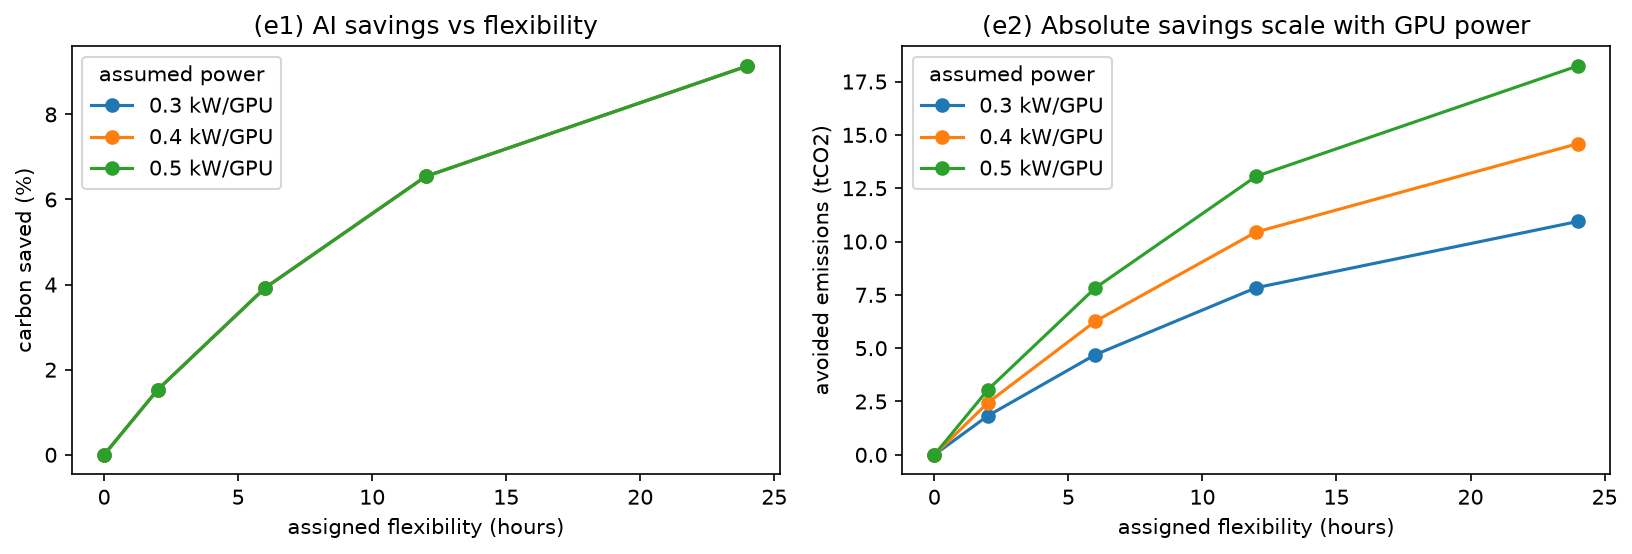
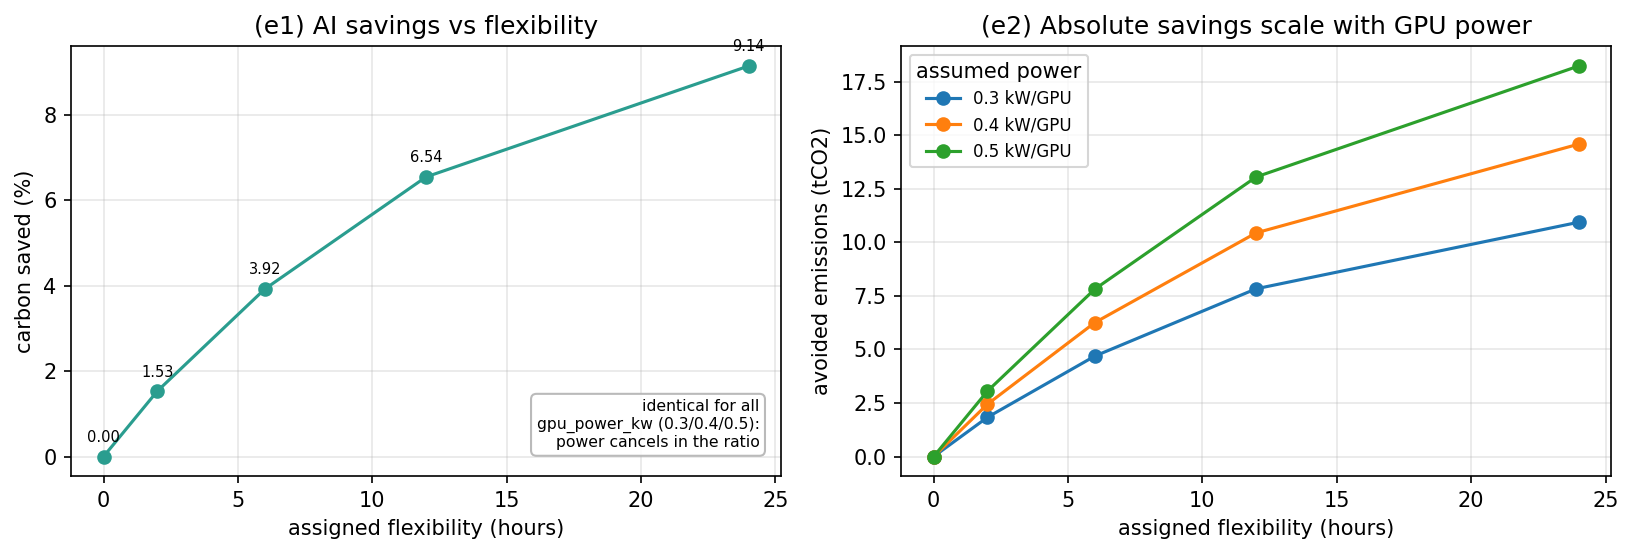
fix(data): close the last synthetic fallback; report CI over calendar 2019; regenerate slack and AI figures

diff --git a/notebooks/nb_utils.py b/notebooks/nb_utils.py
@@ -6,15 +6,19 @@ stand-in, and (b) keeps illustrative demo data clearly LABELLED so a reader neve
 confuses a synthetic curve for a measured one.
 All the real modelling lives in ``cals`` (imported below, never reimplemented).
 
-The two network/key-gated paths, both of which RAISE rather than fake it:
+Every data path RAISES rather than faking it -- there is no synthetic fallback
+left anywhere in this module, and no flag to re-enable one:
   * carbon signal   -> EIA Open Data API   (needs EIA_API_KEY, or a real cache)
-  * EV charging      -> Caltech ACN-Data    (needs acnportal + ACN_API_TOKEN)
+  * EV charging      -> Caltech ACN-Data    (needs a real cache, or acnportal +
+                        ACN_API_TOKEN)
+  * AI load          -> Alibaba GPU v2020 trace (drop a real CSV in data/ai/);
+                        recorded real-trace results live in results/ai_sweep.csv
 The two offline-real paths:
   * HVAC load        -> committed NREL ResStock parquet in data/hvac/
   * emission factors -> cals.FACTORS
-The download-gated path:
-  * AI load          -> Alibaba GPU v2020 trace (drop a CSV in data/ai/); a
-                        clearly-labelled synthetic Alibaba-shaped frame stands in.
+
+The demo_* helpers (demo_fuel_mix, demo_ev_sessions, demo_alibaba_trace) are
+retained for clearly-labelled ILLUSTRATION only and must never reach a result.
 """
 from __future__ import annotations
 
@@ -296,31 +300,36 @@ def demo_alibaba_trace(n: int = 300, seed: int = 2, span_days: int = 20) -> pd.D
 
 def get_ai_jobs(*, gpu_power_kw: float = 0.4, flex_hours: int = 6,
                 origin: pd.Timestamp = DEMO_ORIGIN, verbose: bool = True):
-    """AI-compute Jobs, guarded. Returns (jobs, parsed_df, source_label).
+    """REAL Alibaba GPU v2020 AI-compute Jobs. Returns (jobs, parsed_df, label). RAISES.
 
-    Uses a real Alibaba GPU v2020 CSV if one is present in data/ai/; otherwise a
-    LABELLED synthetic Alibaba-shaped frame. gpu_power_kw and flex_hours are the
-    two swept assumptions (see notebook 04 style sweeps).
+    Requires a real trace CSV in data/ai/ and raises without one. Like the carbon
+    signal and the EV sessions, this no longer degrades to a synthetic frame: a
+    made-up job mix produces a savings number that looks reportable but measures
+    nothing. ``demo_alibaba_trace`` remains for illustration only.
+
+    gpu_power_kw and flex_hours are the two swept assumptions. NOTE that
+    gpu_power_kw cancels out of the savings PERCENTAGE (it scales the baseline
+    and the schedule identically) and moves only absolute gCO2 -- see
+    results/ai_sweep.csv and figure 04e.
     """
     csvs = sorted((DATA / "ai").glob("*.csv"))
-    raw, label = None, None
-    if csvs:
-        try:
-            if csvs[0].name == "pai_task_table.csv":
-                raw = load_pai_task_table(csvs[0])
-            else:
-                raw = pd.read_csv(csvs[0])
-            label = f"Alibaba GPU v2020 ({csvs[0].name})"
-        except Exception as exc:
-            if verbose:
-                print(f"AI: failed to read {csvs[0].name} ({exc}); using synthetic.")
-            raw = None
-    if raw is None:
-        if verbose:
-            print("AI: real Alibaba GPU v2020 trace not found in data/ai/; using a "
-                  "labelled SYNTHETIC Alibaba-shaped trace.")
-        raw = demo_alibaba_trace()
-        label = "DEMO synthetic Alibaba (offline)"
+    if not csvs:
+        raise FileNotFoundError(
+            f"No Alibaba GPU v2020 trace in {DATA / 'ai'}. Download "
+            "cluster-trace-gpu-v2020 (pai_task_table.csv) from "
+            "https://github.com/alibaba/clusterdata/tree/master/cluster-trace-gpu-v2020 "
+            "and drop it there. Refusing to substitute a synthetic trace; the "
+            "recorded real-trace results are in results/ai_sweep.csv."
+        )
+    try:
+        raw = (load_pai_task_table(csvs[0]) if csvs[0].name == "pai_task_table.csv"
+               else pd.read_csv(csvs[0]))
+    except Exception as exc:
+        raise RuntimeError(
+            f"Failed to read the Alibaba trace at {csvs[0]} ({type(exc).__name__}: "
+            f"{exc}). Refusing to substitute a synthetic trace."
+        ) from exc
+    label = f"Alibaba GPU v2020 ({csvs[0].name})"
     parsed = parse_alibaba_trace(raw, origin=origin)
     jobs = alibaba_to_jobs(parsed, gpu_power_kw=gpu_power_kw, flex_hours=flex_hours)
     return jobs, parsed, label
